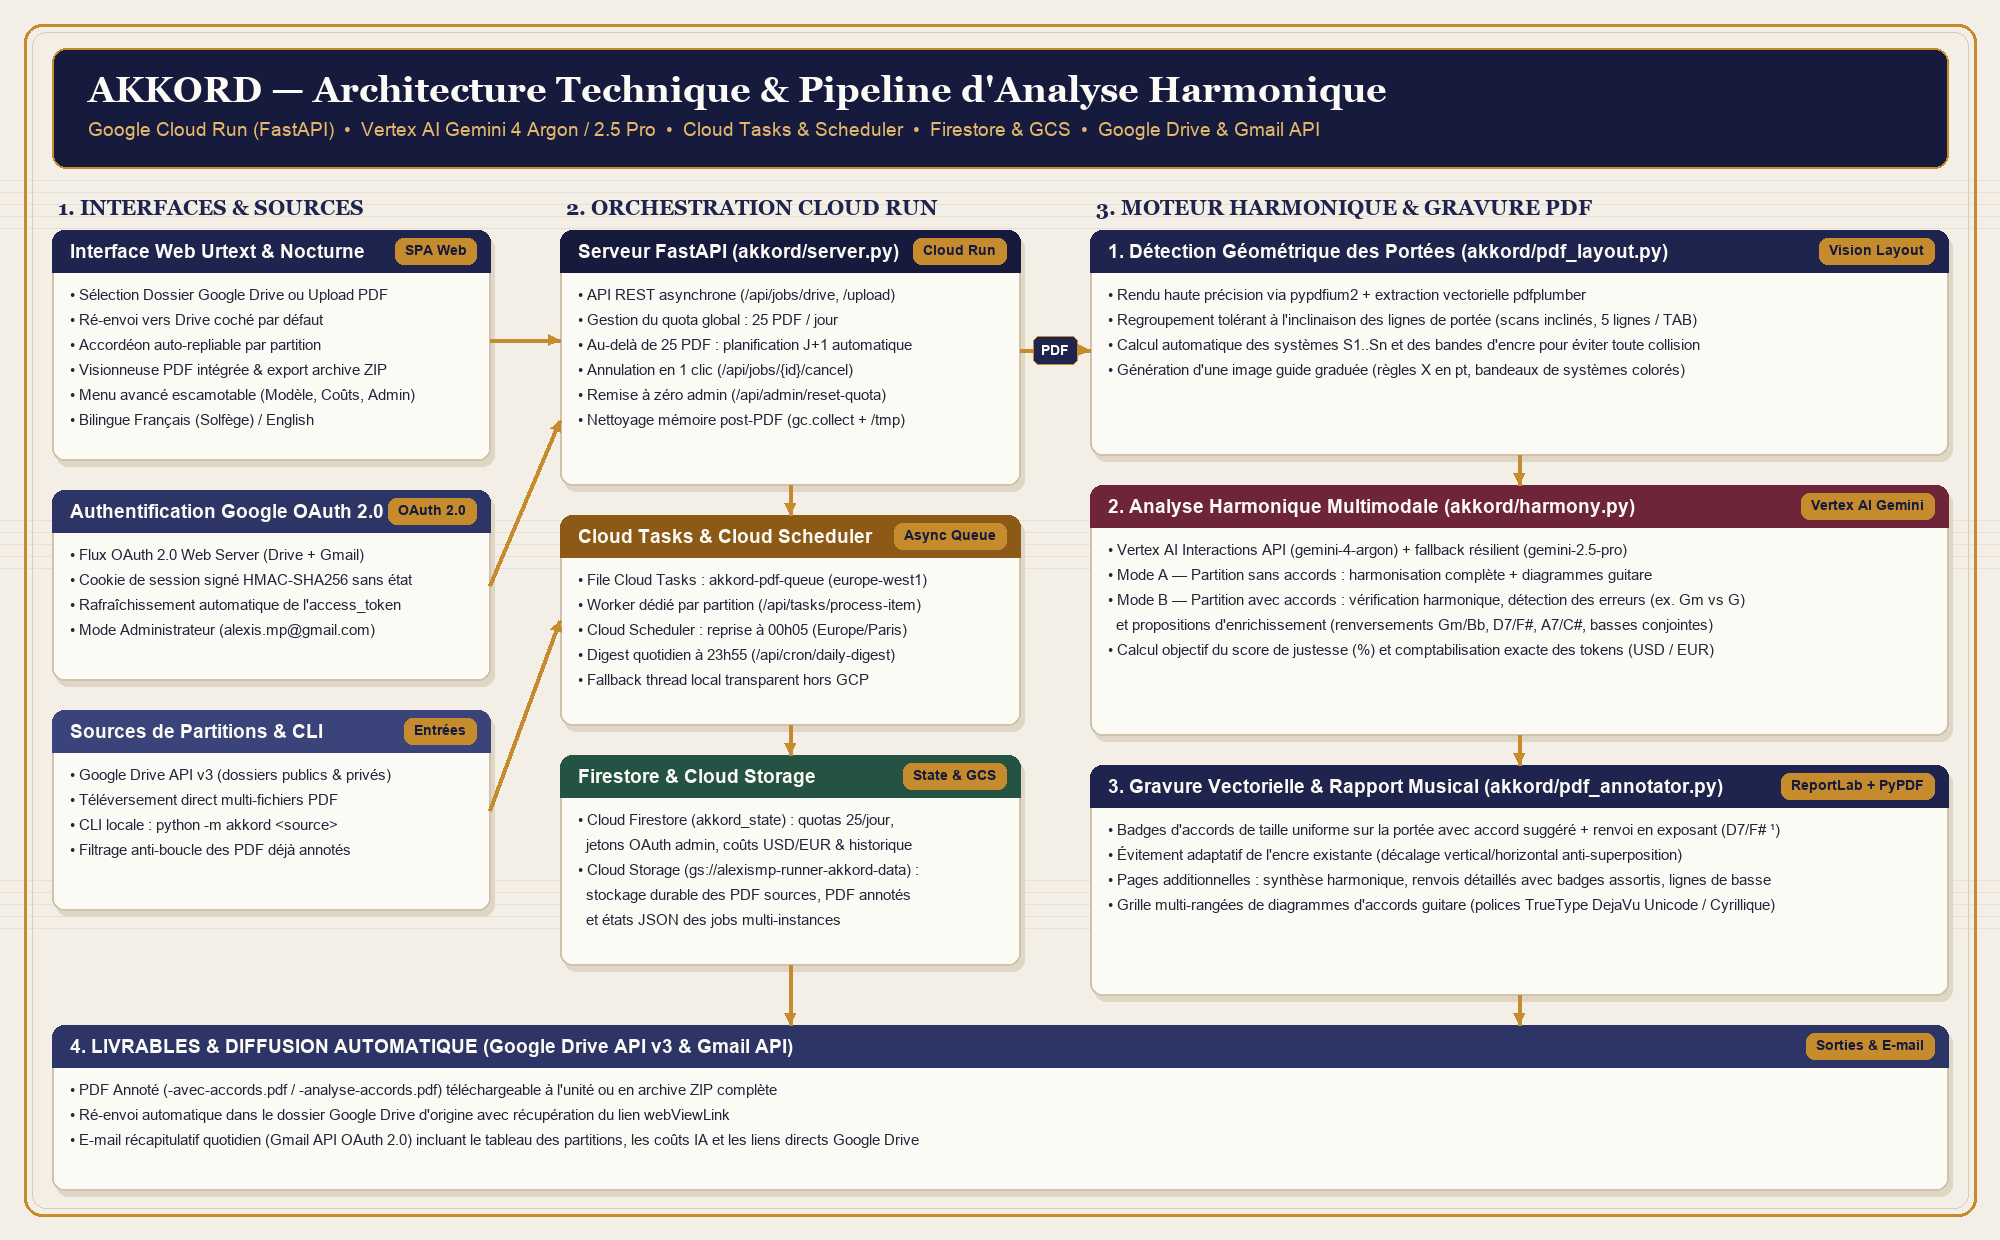
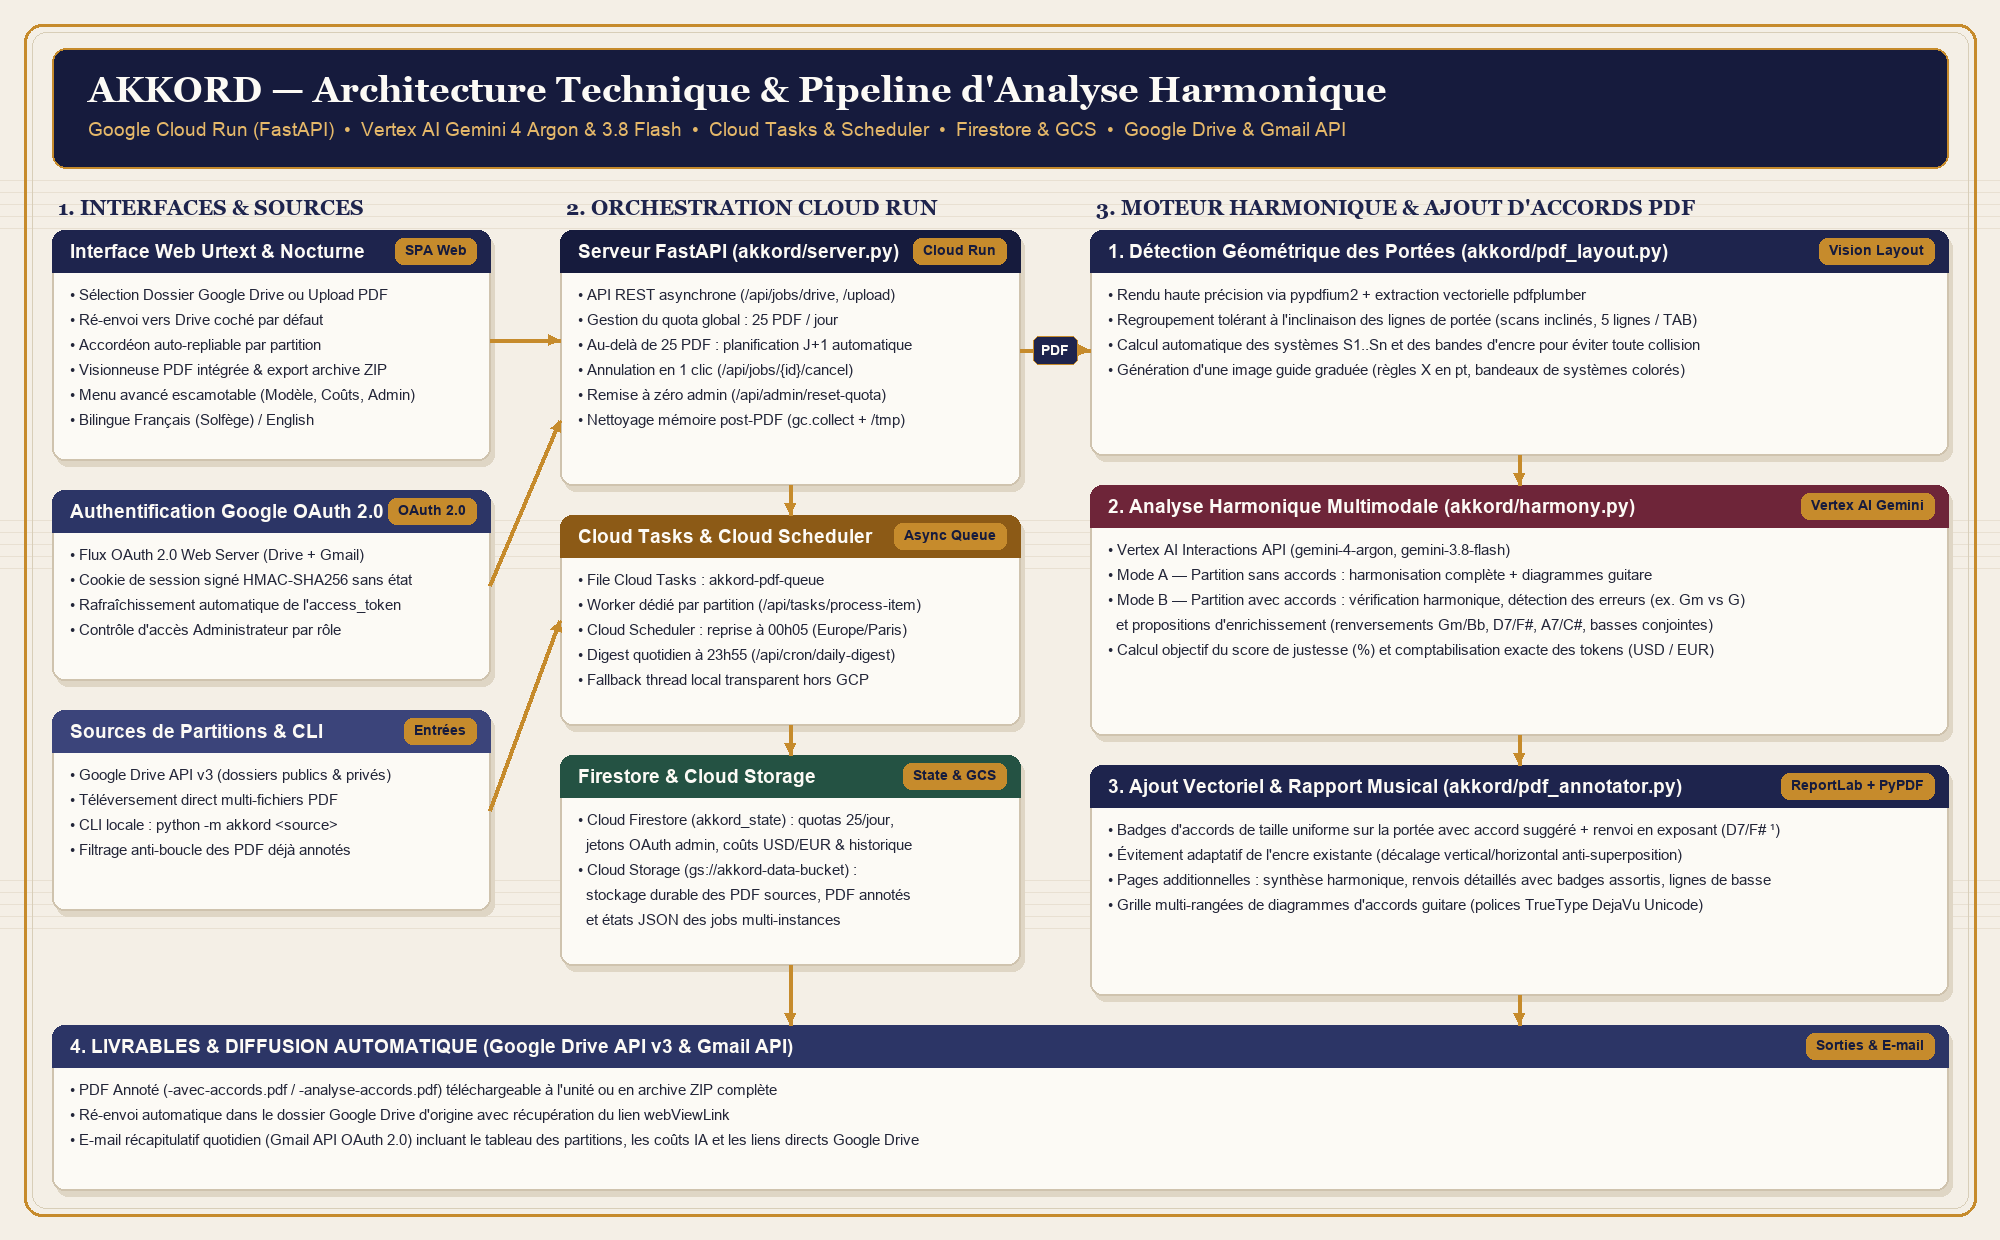
Mise à jour du README et des captures : anonymisation, partitions du domaine public, terminologie d'ajout et focus Gemini 4 Argon / 3.8 Flash

diff --git a/README.md b/README.md
@@ -2,10 +2,10 @@
   <img src="akkord/static/icons/logo-256.png" alt="Logo Akkord" width="128" height="128" />
 </p>
 
-<h1 align="center">Akkord — Analyse Harmonique & Gravure d'Accords sur Partitions PDF</h1>
+<h1 align="center">Akkord — Analyse Harmonique & Ajout d'Accords sur Partitions PDF</h1>
 
 <p align="center">
-  <strong>Assistant d'édition musicale propulsé par Vertex AI (Gemini 4 Argon & Gemini 2.5 Pro) sur Google Cloud Run</strong><br/>
+  <strong>Assistant d'édition musicale propulsé par Vertex AI (Gemini 4 Argon & Gemini 3.8 Flash) sur Google Cloud Run</strong><br/>
   Harmonisation automatique de partitions vierges • Audit contrapuntique d'accords existants • Diagrammes guitare & lignes de basse
 </p>
 
@@ -13,17 +13,17 @@
 
 ## 🎼 Présentation
 
-**Akkord** est une application web et un outil en ligne de commande (CLI) conçu pour analyser des partitions musicales au format PDF (chansons traditionnelles, recueils vocaux, tablatures guitare, partitions piano/chant en alphabet latin ou cyrillique) et produire automatiquement des **partitions PDF annotées prêtes pour le pupitre**.
+**Akkord** est une application web et un outil en ligne de commande (CLI) conçu pour analyser des partitions musicales au format PDF (pièces classiques du domaine public, recueils vocaux, tablatures guitare, partitions piano/chant) et produire automatiquement des **partitions PDF annotées prêtes pour le pupitre**.
 
 Selon la nature de chaque partition détectée, **Akkord** opère automatiquement dans l'un des deux modes suivants :
 
 1. **Mode Ajout d'accords (`-avec-accords.pdf` / `-with-chords.pdf`)** — *Partition sans accords initiaux* :
    * Détection de la tonalité principale et de la carrure harmonique mesure par mesure.
-   * Gravure de badges d'accords bleus directement au-dessus de chaque système de portées avec évitement adaptatif des collisions d'encre.
+   * Ajout de badges d'accords bleus directement au-dessus de chaque système de portées avec évitement adaptatif des collisions d'encre.
    * Génération en fin de partition d'une grille multi-rangées de diagrammes d'accords guitare et d'un guide des accords avec basse inversée (*slash chords*).
 2. **Mode Analyse & Enrichissement d'accords existants (`-analyse-accords.pdf` / `-chord-analysis.pdf`)** — *Partition comportant déjà des accords chiffrés* :
-   * Vérification de la justesse harmonique des accords imprimés par rapport à la mélodie et à l'armure (ex. distinction `Gm` vs `G` en Ré mineur).
-   * Gravure sur la portée de **badges ambrés de taille uniforme** affichant directement **l'accord suggéré accompagné d'un numéro de renvoi en exposant** (ex. `D7/F# ¹`, `Gm/Bb ²`, `A7/C# ³`).
+   * Vérification de la justesse harmonique des accords imprimés par rapport à la mélodie et à l'armure (ex. distinction `Gm` vs `G` en Ré mineur ou Sol mineur).
+   * Ajout sur la portée de **badges ambrés de taille uniforme** affichant directement **l'accord suggéré accompagné d'un numéro de renvoi en exposant** (ex. `Gm/Bb ¹`, `D7/F# ²`, `Cm/Eb ³`, `A7/C# ⁴`).
    * Ajout de pages de rapport harmonique détaillé en fin de PDF reprenant chaque badge numéroté, l'explication contrapuntique, les propositions de lignes de basse conjointes et les diagrammes d'accords guitare.
 
 ---
@@ -50,8 +50,8 @@ flowchart LR
 
     subgraph Engine["3. Moteur Musical & IA Multimodale"]
         Layout["Détection Géométrique\n(akkord/pdf_layout.py)"]
-        Gemini["Vertex AI Gemini 4 Argon\n(akkord/harmony.py)"]
-        Annotator["Gravure PDF Vectorielle\n(akkord/pdf_annotator.py)"]
+        Gemini["Vertex AI Gemini\n(4 Argon & 3.8 Flash)"]
+        Annotator["Ajout Vectoriel PDF\n(akkord/pdf_annotator.py)"]
     end
 
     subgraph Storage["4. Persistance & Diffusion"]
@@ -79,8 +79,8 @@ flowchart LR
 | Module | Rôle et responsabilités techniques |
 | :--- | :--- |
 | [`akkord/pdf_layout.py`](akkord/pdf_layout.py) | **Détection géométrique des portées et de l'encre** : rendu raster haute résolution via `pypdfium2` et inspection vectorielle via `pdfplumber`. Regroupe les groupes de 5 lignes de portée (avec tolérance à l'inclinaison sur les scans penchés), associe les portées de tablature (`TAB`), calcule les coordonnées verticales de chaque système (`S1..Sn`) et génère l'image guide graduée transmise au modèle multimodal. |
-| [`akkord/harmony.py`](akkord/harmony.py) | **Moteur d'analyse harmonique Vertex AI** : interroge `gemini-4-argon` via l'API Interactions de Google GenAI (avec repli automatique sur `gemini-2.5-pro`), détecte les boucles de répétition éventuelles, garantit la couverture complète de tous les systèmes de portées, normalise la notation musicale (Français Solfège / Anglais) et calcule le score objectif de justesse harmonique ainsi que le coût exact en tokens (`USD` / `EUR`). |
-| [`akkord/pdf_annotator.py`](akkord/pdf_annotator.py) | **Gravure vectorielle PDF** : superpose via `ReportLab` et `PyPDF` les badges d'accords sur la partition originale sans altérer la gravure existante. Utilise la police TrueType `DejaVuSans` pour un rendu parfait du cyrillique, des symboles musicaux (`♭`, `♯`) et des numéros de renvoi en exposant (`¹`, `²`, `³`), avec algorithme d'évitement adaptatif de l'encre. |
+| [`akkord/harmony.py`](akkord/harmony.py) | **Moteur d'analyse harmonique Vertex AI** : interroge les modèles Gemini tels que **Gemini 4 Argon** (`gemini-4-argon`) et **Gemini 3.8 Flash** (`gemini-3.8-flash`) via l'API Interactions de Google GenAI, garantit la couverture complète de tous les systèmes de portées, normalise la notation musicale (Français Solfège / Anglais) et calcule le score objectif de justesse harmonique ainsi que le coût exact en tokens (`USD` / `EUR`). |
+| [`akkord/pdf_annotator.py`](akkord/pdf_annotator.py) | **Ajout vectoriel d'accords sur PDF** : superpose via `ReportLab` et `PyPDF` les badges d'accords sur la partition originale sans altérer le document existant. Utilise la police TrueType `DejaVuSans` pour un rendu parfait des caractères internationaux, des symboles musicaux (`♭`, `♯`) et des numéros de renvoi en exposant (`¹`, `²`, `³`), avec algorithme d'évitement adaptatif de l'encre. |
 | [`akkord/job_queue.py`](akkord/job_queue.py) | **File d'attente asynchrone par lot & Cloud Tasks** : découpe chaque lot en tâches unitaires dans Google Cloud Tasks (`akkord-pdf-queue`), applique le quota journalier de **25 PDF / jour**, planifie automatiquement les fichiers au-delà de 25 au lendemain (`deferred_next_day`), et permet l'export en archive `.zip`. |
 | [`akkord/activity.py`](akkord/activity.py) & [`akkord/firestore_store.py`](akkord/firestore_store.py) | **Quotas, comptabilité des tokens et rapport Gmail** : persiste dans Cloud Firestore (`akkord_state`) le compteur quotidien de 25 PDF, le suivi détaillé des tokens et coûts (`USD`/`EUR`) par fichier, et envoie chaque soir un e-mail récapitulatif HTML via l'API Gmail incluant les liens directs vers les fichiers mis à jour sur Google Drive. |
 | [`akkord/oauth.py`](akkord/oauth.py) | **Authentification Google OAuth 2.0 sans état** : gère le flux OAuth 2.0 Web Server (scopes `drive` et `gmail.send`), signe les sessions dans un cookie `HttpOnly` HMAC-SHA256 résistant au redémarrage des conteneurs et rafraîchit automatiquement les jetons expirés. |
@@ -117,11 +117,11 @@ Dès que vous cliquez sur **« Analyser & Annoter les Partitions »**, un job as
 * **Barre de progression en temps réel** : affiche le nombre de partitions **Terminées**, **En cours**, **En attente** et **Reportées (J+1)**.
 * **Gestion automatique des lots de plus de 25 partitions** :
   * Si votre dossier contient par exemple 35 partitions PDF, les **25 premières** sont traitées immédiatement.
-  * Les **10 partitions suivantes** reçoivent le statut `📅 Planifié le J+1 (Quota 25/j)` et sont automatiquement reprises le lendemain à `00h05` par Cloud Scheduler (ou immédiatement si l'administrateur remet le quota à zéro).
+  * Les **10 partitions suivantes** reçoivent le statut `Planifié le J+1 (Quota 25/j)` et sont automatiquement reprises le lendemain à `00h05` par Cloud Scheduler (ou immédiatement si l'administrateur remet le quota à zéro).
 * **Ouverture automatique du dernier compte rendu (Accordéon)** :
-  * Dans la liste des résultats, un simple clic sur la flèche `▸` / `▾` à gauche du titre déplie ou replie les détails d'une partition.
-  * **À chaque nouvelle partition terminée**, son compte rendu complet (synthèse harmonique, tonalité détectée, score de justesse, boutons **👁 Aperçu PDF** et **⬇ Télécharger PDF**) **s'ouvre automatiquement tandis que les partitions précédentes se replient** pour garder l'écran lisible.
-* **Téléchargement groupé** : le bouton **« 📦 Télécharger tout (.zip) »** rassemble toutes les partitions annotées du lot dans une archive ZIP unique.
+  * Dans la liste des résultats, un simple clic sur la flèche à gauche du titre déplie ou replie les détails d'une partition.
+  * **À chaque nouvelle partition terminée**, son compte rendu complet (synthèse harmonique, tonalité détectée, score de justesse, boutons **Aperçu PDF** et **Télécharger PDF**) **s'ouvre automatiquement tandis que les partitions précédentes se replient** pour garder l'écran lisible.
+* **Téléchargement groupé** : le bouton **« Télécharger tout (.zip) »** rassemble toutes les partitions annotées du lot dans une archive ZIP unique.
 
 ---
 
@@ -131,21 +131,25 @@ Dès que vous cliquez sur **« Analyser & Annoter les Partitions »**, un job as
 
 ![Mode Analyse d'accords existants avec badges et renvois](docs/images/pdf-analyze-badges.png)
 
+*Exemple ci-dessus sur une œuvre du domaine public : **P. I. Tchaïkovski — Juin : Barcarolle, op. 37a n° 6**.*
+
 Lorsque la partition d'origine comporte déjà des accords imprimés :
-* **Sur la partition (page de gauche)** : lorsqu'un accord peut être corrigé ou enrichi (renversement, chiffrage plus précis, accord de passage), Akkord appose un **badge ambré de taille uniforme** contenant **l'accord suggéré suivi d'un numéro de renvoi en exposant** (par exemple `Am/C ¹`, `Dm/F ²`, `E7/G# ³`, `G7/B ⁴`).
+* **Sur la partition (page de gauche)** : lorsqu'un accord peut être corrigé ou enrichi (renversement, chiffrage plus précis, accord de passage), Akkord ajoute un **badge ambré de taille uniforme** contenant **l'accord suggéré suivi d'un numéro de renvoi en exposant** (par exemple `Gm/Bb ¹`, `D7/F# ²`, `Cm/Eb ³`, `A7/C# ⁴`).
 * **Sur les pages d'analyse ajoutées en fin de document (page de droite)** :
-  * Un bandeau récapitule la **tonalité détectée**, le **score de justesse harmonique (%)** et l'appréciation générale.
-  * La section **« Analyse détaillée & Propositions d'améliorations »** reprend chaque badge numéroté (`Am/C ¹`, `Dm/F ²`...) avec la mesure concernée, l'accord initial et la justification musicale complète.
-  * La section **« Propositions de lignes de basse & Contrepoint »** détaille les mouvements de basse conjoints possibles.
+  * Un bandeau récapitule la **tonalité détectée** (`Sol mineur / Gm`), le **score de justesse harmonique (%)** et l'appréciation générale.
+  * La section **« Notes détaillées renvoyées depuis la partition »** reprend chaque badge numéroté (`Gm/Bb ¹`, `D7/F# ²`...) avec le système, la mesure concernée, l'accord initial et la justification musicale complète.
+  * La section **« Ligne de basse — Contrepoint & Walking Bass »** détaille les mouvements de basse conjoints possibles.
   * La **grille de diagrammes d'accords guitare** illustre les doigtés de tous les accords de la pièce.
 
 #### B. Mode Ajout d'accords sur partition vierge (`-avec-accords.pdf`)
 
 ![Mode Ajout d'accords sur partition vierge](docs/images/pdf-added-chords.png)
 
+*Exemple ci-dessus sur une œuvre du domaine public : **F. Chopin — Valse en La mineur, B. 150**.*
+
 Lorsque la partition ne contient que la mélodie ou la tablature sans chiffrage :
-* **Sur la partition (page de gauche)** : des badges d'accords bleus (`Am`, `Dm`, `E7`, `C`, `A7/C#`...) sont alignés au-dessus de chaque système de portées en évitant automatiquement les titres, indications de tempo et notes hautes.
-* **En fin de partition (page de droite)** : une boîte dédiée présente les **diagrammes d'accords guitare** (avec notation solfège entre parenthèses en français : `Am (La m)`, `Dm (Ré m)`, `E7 (Mi 7)`) ainsi qu'un guide des accords avec basse inversée.
+* **Sur la partition (page de gauche)** : des badges d'accords bleus (`Am`, `Dm6/F`, `E7/G#`, `C`, `G7/B`...) sont ajoutés et alignés au-dessus de chaque système de portées en évitant automatiquement les titres, indications de tempo et notes hautes.
+* **En fin de partition (page de droite)** : un encadré dédié présente les **diagrammes d'accords guitare** (avec notation solfège entre parenthèses en français : `Am (La m)`, `Dm (Ré m)`, `E7 (Mi 7)`) ainsi qu'un guide des lignes de basse et renversements.
 
 ---
 
@@ -153,17 +157,17 @@ Lorsque la partition ne contient que la mélodie ou la tablature sans chiffrage 
 
 ![Menu avancé ouvert avec suivi des tokens et administration](docs/images/ui-advanced-menu.png)
 
-Pour conserver une interface épurée au quotidien, les réglages techniques et les outils d'administration sont regroupés dans le panneau repliable **« ⚙ Menu avancé (Modèle IA, Quotas, Coûts & Administration) »** situé en bas de la carte principale.
+Pour conserver une interface épurée au quotidien, les réglages techniques et les outils d'administration sont regroupés dans le panneau repliable **« Menu avancé (Modèle IA, Quotas, Coûts & Administration) »** situé en bas de la carte principale.
 
 En dépliant ce menu, vous accédez à :
-1. **Modèle d'analyse harmonique** : sélection du modèle Vertex AI (`gemini-4-argon` par défaut, `gemini-3.8-flash`, `gemini-3.5-flash-lite`, `gemini-2.5-pro`, `gemini-2.5-flash`).
+1. **Modèle d'analyse harmonique** : sélection du modèle Vertex AI, par exemple **Gemini 4 Argon** (`gemini-4-argon`, recommandé pour l'analyse contrapuntique approfondie) ou **Gemini 3.8 Flash** (`gemini-3.8-flash`, optimisé pour la rapidité et le coût).
 2. **Actions d'administration (réservées à l'administrateur connecté)** :
-   * **🔄 Forcer la remise à zéro du quota (25)** : réinitialise immédiatement le compteur journalier à `0 / 25` tout en conservant l'historique comptable des tokens de la journée.
-   * **▶ Relancer les partitions reportées** : déclenche sans attendre le traitement des partitions planifiées à J+1.
-   * **📧 Envoyer le récapitulatif** : envoie immédiatement par e-mail (via Gmail API) le bilan HTML de la journée avec le détail des partitions, les coûts IA et les **liens directs vers les fichiers mis à jour dans Google Drive**.
+   * **Remettre le quota à zéro (25)** : réinitialise immédiatement le compteur journalier à `0 / 25` tout en conservant l'historique comptable des tokens de la journée.
+   * **Relancer reportées** : déclenche sans attendre le traitement des partitions planifiées à J+1.
+   * **Envoyer récapitulatif** : envoie immédiatement par e-mail (via Gmail API) le bilan HTML de la journée avec le détail des partitions, les coûts IA et les **liens directs vers les fichiers mis à jour dans Google Drive**.
 3. **Suivi des tokens & Coûts estimés** :
-   * Cartes récapitulatives du coût du jour (`EUR` & `USD`), du volume de tokens (entrée / sortie / réflexion) et du cumul global persisté dans Firestore.
-   * Tableau dépliable **« Historique détaillé des partitions du jour (tokens & coûts) »** listant chaque partition traitée à la seconde près.
+   * Cartes récapitulatives du coût du jour (`EUR` & `USD`), du volume de tokens (entrée / sortie) et du cumul global persisté dans Firestore.
+   * Tableau dépliable **« Historique détaillé des partitions du jour (tokens & coûts) »** listant chaque partition traitée.
 
 ---
 
@@ -172,14 +176,14 @@ En dépliant ce menu, vous accédez à :
 **Akkord** peut également être exécuté directement depuis un terminal sur un fichier PDF local, un dossier local ou un dossier Google Drive :
 
 ```bash
-# Analyser un dossier local de partitions en français (avec le modèle par défaut gemini-4-argon)
-python -m akkord ./samples --lang fr --output-dir ./outputs
+# Analyser un dossier local de partitions en français (avec Gemini 4 Argon par défaut)
+python -m akkord ./samples --lang fr --model gemini-4-argon --output-dir ./outputs
+
+# Utiliser Gemini 3.8 Flash pour un traitement rapide
+python -m akkord ./samples/ValseChopinAm.pdf --lang fr --model gemini-3.8-flash --output-dir ./outputs
 
 # Analyser un dossier Google Drive et ré-envoyer les PDF annotés sur Drive
 python -m akkord "https://drive.google.com/drive/folders/VOTRE_FOLDER_ID" --lang fr --upload-to-drive
-
-# Générer les partitions annotées en anglais
-python -m akkord ./samples/koh.pdf --lang en --output-dir ./outputs
 ```
 
 ---
@@ -193,8 +197,6 @@ python -m akkord ./samples/koh.pdf --lang en --output-dir ./outputs
 ### Installation locale
 
 ```bash
-git clone https://github.com/alexismp/akkord.git
-cd akkord
 python3 -m venv .venv
 source .venv/bin/activate
 pip install -r requirements.txt
@@ -218,7 +220,7 @@ pytest tests/ -v
 ```bash
 gcloud run deploy akkord \
   --source=. \
-  --project=alexismp-runner \
+  --project=VOTRE_PROJET_GCP \
   --region=europe-west1 \
   --allow-unauthenticated
 ```
